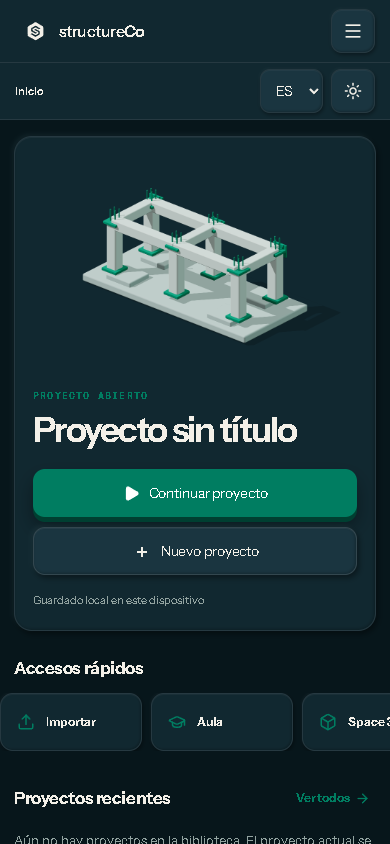
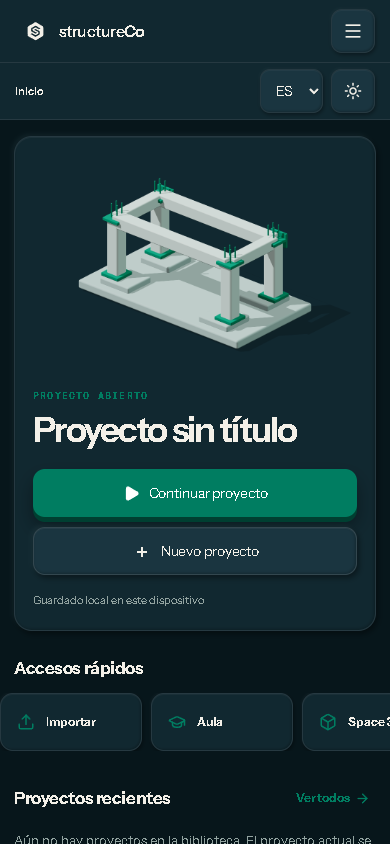
fix(home): close mobile navigation with Escape
Report: reports/2026-08-22-0128-home-three-assets.md

Changed region(s): [[0.1846, 0.2156, 0.8, 0.4313]]

diff --git a/src/features/welcome/WelcomeScreen.tsx b/src/features/welcome/WelcomeScreen.tsx
@@ -1,4 +1,4 @@
-import { lazy, Suspense, useEffect, useMemo, useState } from 'react';
+import { lazy, Suspense, useEffect, useMemo, useRef, useState } from 'react';
 import { ArrowRight, Box, Folder, GraduationCap, Home, LayoutTemplate, Menu, Moon, Play, Settings, Sun, Upload } from 'lucide-react';
 import { m, useReducedMotion } from 'motion/react';
 import { createBlankProject, exampleProjects } from '../../data/defaultProject';
@@ -77,6 +77,7 @@ export const WelcomeScreen = ({ onOpenWorkspace, onOpenSpace3D, onPreloadWorkspa
   const [exerciseDialogOpen, setExerciseDialogOpen] = useState(false);
   const [importCenterOpen, setImportCenterOpen] = useState(false);
   const [dxfImportOpen, setDxfImportOpen] = useState(false);
+  const mobileMenuButtonRef = useRef<HTMLButtonElement>(null);
   const entry = useWelcomeEntry();
   const heroId = useMemo(() => resolveSessionHeroId(HOME_HERO_IDS, window.sessionStorage), []);
 
@@ -85,6 +86,18 @@ export const WelcomeScreen = ({ onOpenWorkspace, onOpenSpace3D, onPreloadWorkspa
     onDirectResume?.();
     onOpenWorkspace();
   }, [allowDirectResume, entry, onDirectResume, onOpenWorkspace]);
+
+  useEffect(() => {
+    if (!mobileNavOpen) return;
+    const closeMobileNavigation = (event: KeyboardEvent) => {
+      if (event.key !== 'Escape') return;
+      event.preventDefault();
+      setMobileNavOpen(false);
+      mobileMenuButtonRef.current?.focus();
+    };
+    window.addEventListener('keydown', closeMobileNavigation);
+    return () => window.removeEventListener('keydown', closeMobileNavigation);
+  }, [mobileNavOpen]);
 
   const openBlankProject = () => {
     const next = createBlankProject();
@@ -149,7 +162,7 @@ export const WelcomeScreen = ({ onOpenWorkspace, onOpenSpace3D, onPreloadWorkspa
 
   return <main className="sc-home" data-testid="welcome-screen">
     <aside className="sc-home-sidebar"><div className="sc-home-wordmark"><BrandMark size={30} /><strong><span>structure</span>Co</strong></div>{renderNavigation()}<button type="button" className="sc-home-settings" onClick={() => setSettingsOpen((open) => !open)}><Settings size={19} /><span>{text.settings}</span></button></aside>
-    <header className="sc-home-mobile-header"><div className="sc-home-wordmark"><BrandMark size={27} /><strong><span>structure</span>Co</strong></div><button type="button" aria-label={mobileNavOpen ? text.closeMenu : text.menu} aria-expanded={mobileNavOpen} onClick={() => setMobileNavOpen((open) => !open)}><Menu size={20} /></button></header>
+    <header className="sc-home-mobile-header"><div className="sc-home-wordmark"><BrandMark size={27} /><strong><span>structure</span>Co</strong></div><button ref={mobileMenuButtonRef} type="button" aria-label={mobileNavOpen ? text.closeMenu : text.menu} aria-expanded={mobileNavOpen} onClick={() => setMobileNavOpen((open) => !open)}><Menu size={20} /></button></header>
     {mobileNavOpen ? renderNavigation(true) : null}
     <div className="sc-home-main"><header className="sc-home-topline"><span>{text[view]}</span><div><label><span className="sr-only">{t('language.label')}</span><select value={language} onChange={(event) => updateProjectView((draft) => ({ ...draft, settings: { ...draft.settings, language: event.target.value as 'es' | 'en' } }))}><option value="es">ES</option><option value="en">EN</option></select></label><button type="button" onClick={() => setTheme(theme === 'light' ? 'dark' : 'light')} aria-label={theme === 'light' ? t('theme.dark') : t('theme.light')}>{theme === 'light' ? <Moon size={18} /> : <Sun size={18} />}</button></div></header><div className="sc-home-content">{content}</div></div>
     {settingsOpen ? <div className="sc-home-settings-panel" role="dialog" aria-label={text.settings}><button type="button" onClick={() => setSettingsOpen(false)}>×</button><h2>{text.settings}</h2><p>{text.local}</p></div> : null}

diff --git a/src/features/welcome/totalRedesignHome.test.tsx b/src/features/welcome/totalRedesignHome.test.tsx
@@ -1,5 +1,6 @@
 // @vitest-environment jsdom
 import { cleanup, render, screen, within } from '@testing-library/react';
+import userEvent from '@testing-library/user-event';
 import { afterEach, beforeAll, beforeEach, describe, expect, it, vi } from 'vitest';
 import { createBlankProject } from '../../data/defaultProject';
 import { PROJECT_STORAGE_KEY } from '../../data/projectStorage';
@@ -68,5 +69,39 @@ describe('Home total redesign contract', () => {
     expect(container.querySelector('[data-testid="home-secondary-actions"]')).toBeTruthy();
     expect(screen.queryByText(/Empieza en tres pasos/i)).toBeNull();
     expect(screen.queryByText(/Mesa/i)).toBeNull();
+  });
+
+  it('closes mobile navigation with Escape and returns focus to its menu button', async () => {
+    const user = userEvent.setup();
+    renderHome();
+    const menuButton = screen.getByRole('button', { name: 'Abrir navegación' });
+
+    await user.click(menuButton);
+    expect(menuButton.getAttribute('aria-expanded')).toBe('true');
+    expect(screen.getAllByRole('navigation', { name: 'Navegación principal' })).toHaveLength(2);
+
+    await user.keyboard('{Escape}');
+
+    expect(menuButton.getAttribute('aria-expanded')).toBe('false');
+    expect(screen.getAllByRole('navigation', { name: 'Navegación principal' })).toHaveLength(1);
+    expect(document.activeElement).toBe(menuButton);
+  });
+
+  it('toggles mobile navigation state and closes it after selecting a destination', async () => {
+    const user = userEvent.setup();
+    const { container } = renderHome();
+    const menuButton = screen.getByRole('button', { name: 'Abrir navegación' });
+
+    expect(menuButton.getAttribute('aria-expanded')).toBe('false');
+    await user.click(menuButton);
+    expect(menuButton.getAttribute('aria-expanded')).toBe('true');
+
+    const mobileNavigation = container.querySelector('.sc-home-nav--mobile');
+    expect(mobileNavigation).not.toBeNull();
+    await user.click(within(mobileNavigation as HTMLElement).getByRole('button', { name: 'Plantillas' }));
+
+    expect(menuButton.getAttribute('aria-expanded')).toBe('false');
+    expect(container.querySelector('.sc-home-nav--mobile')).toBeNull();
+    expect(screen.getByRole('heading', { name: 'Elige una estructura de partida' })).toBeTruthy();
   });
 });

diff --git a/reports/2026-08-22-0128-home-three-assets.md b/reports/2026-08-22-0128-home-three-assets.md
@@ -1,45 +1,73 @@
-# Home total y assets estructurales Three.js
+# Home total y assets estructurales Three.js — corrección de accesibilidad y evidencia completa
 
-**Fecha:** 2026-08-22 01:28  
-**Agente:** Codex  
+**Fecha:** 2026-08-22 01:48
+**Agente:** Codex
 **Rama:** `codex/clay-workspace-phase-2`
 
 ## Qué cambió
 
-Se reemplazó por completo la composición anterior del Home con una experiencia adaptativa de escritorio, tablet y móvil. El Home ahora prioriza continuar o crear proyecto, accesos rápidos, proyectos recientes y plantillas, con navegación propia por formato.
+El menú de navegación móvil del Home ahora responde a `Escape`: se cierra y el foco vuelve al botón que abrió el menú. Se añadieron pruebas focales para ese contrato y para el contrato existente de apertura/cierre mediante `aria-expanded` y selección de un destino.
 
-Se añadió una primera familia editable de escenas Three.js y 40 renders transparentes Día/Noche: cuatro pórticos, cuatro vigas, cuatro voladizos, cuatro armaduras y cuatro losas. El pórtico principal se elige de forma estable por sesión y las plantillas usan las nuevas imágenes 3D con SVG únicamente como respaldo.
+El oráculo visual del Home captura ahora exactamente seis escenarios: escritorio, tablet y móvil, todos en Día y Noche. La evidencia regenerada contiene los seis PNG y un resumen instrumental sin fallos.
 
 ## Por qué
 
-El usuario pidió un rediseño visual total guiado por sus referencias, con material mate, profundidad física y assets estructurales de mayor calidad. También pidió eliminar la placa/cuadrado decorativo detrás del pórtico: el modelo ahora se presenta directamente sobre la superficie del Home, sin fondo, halo, patrón ni contenedor visual adicional.
+La revisión de Task 2 detectó tres faltantes: no había evidencia de las seis vistas requeridas, el RED original no estaba explicado en el reporte y no existía cobertura focal de navegación móvil accesible. Esta corrección deja la evidencia verificable sin alterar el diseño de navegación ni sus callbacks existentes.
 
 ## Archivos tocados
 
-- `src/features/welcome/WelcomeScreen.tsx` y `totalHome.css` — nueva arquitectura del Home y composición responsive Día/Noche.
-- `src/features/welcome/homeSession.ts` — selección aleatoria estable del pórtico principal durante la sesión.
-- `src/features/project-hub/ProjectHub.tsx` y `Phase2ProjectHub.tsx` — integración del Hub real dentro de la nueva navegación.
-- `src/features/structural-assets/threePortalAssets.ts` — cuatro escenas editables de pórticos.
-- `src/features/structural-assets/threeFamilyAssets.ts` — escenas editables de vigas, voladizos, armaduras y losas.
-- `src/features/structural-assets/threeStructuralRender.ts` — render transparente y encuadre ortográfico calculado desde límites reales.
-- `src/features/structural-assets/ThreeStructuralImage.tsx` — carga de prerenders Día/Noche con fallback SVG.
-- `public/assets/structural/` — 40 PNG transparentes generados para uso rápido en producto.
-- `scripts/generate-three-portal-assets.mjs` — regeneración determinista de los renders desde las escenas Three.js.
-- `scripts/qa-total-home-redesign.mjs` y `scripts/qa-structural-assets.mjs` — QA visual y responsive automatizada.
-- `reports/evidence/2026-08-22-total-home-redesign/` — capturas de escritorio, tablet y móvil.
-- `reports/evidence/2026-08-22-structural-assets/` — evidencia del atlas de assets.
+- `src/features/welcome/WelcomeScreen.tsx` — escucha `Escape` sólo mientras el menú móvil está abierto y devuelve foco a su activador.
+- `src/features/welcome/totalRedesignHome.test.tsx` — RED/GREEN de Escape y caracterización de `aria-expanded`, cierre y actualización de contenido al elegir Plantillas.
+- `scripts/qa-total-home-redesign.mjs` — matriz fija de seis escenarios.
+- `reports/evidence/2026-08-22-total-home-redesign/` — seis capturas y `qa-summary.json` regenerado.
+- `reports/2026-08-22-0128-home-three-assets.md` — este checkpoint actualizado.
+
+## Evidencia TDD
+
+| Etapa | Comando / fuente | Resultado honesto |
+|---|---|---|
+| RED original de Task 2 | `.superpowers/sdd/2026-08-22-structureco-total-visual-redesign/progress.md` | El ledger registra `npm.cmd test -- src/features/welcome/totalRedesignHome.test.tsx --reporter=verbose` con 3/3 fallos esperados: navegación, hero estructural y acciones compactas. El ledger no conserva el texto de salida, por lo que no se inventó. |
+| RED nuevo: Escape | `npm.cmd test -- src/features/welcome/totalRedesignHome.test.tsx --reporter=verbose` | 3 PASS, 1 FAIL esperado: tras `{Escape}`, `aria-expanded` continuaba en `true` (recibido `true`, esperado `false`). Antes de esa ejecución se corrigió una aserción de prueba que usaba un matcher DOM no instalado; no cuenta como evidencia del comportamiento. |
+| GREEN nuevo: Escape | mismo comando | 4/4 PASS. |
+| Caracterización existente | mismo comando, tras añadir selección de destino | 5/5 PASS: el menú alterna `aria-expanded`, Plantillas lo cierra y muestra su contenido. |
+
+## Evidencia visual
+
+`node scripts/qa-total-home-redesign.mjs` terminó con `Home redesign QA PASS · 6 captures` y `qa-summary.json` sin fallos ni errores de consola.
+
+| Escenario | Viewport | Captura |
+|---|---:|---|
+| Escritorio Día | 1440×960 | `reports/evidence/2026-08-22-total-home-redesign/desktop-day.png` |
+| Escritorio Noche | 1440×960 | `reports/evidence/2026-08-22-total-home-redesign/desktop-night.png` |
+| Tablet Día | 1024×900 | `reports/evidence/2026-08-22-total-home-redesign/tablet-day.png` |
+| Tablet Noche | 1024×900 | `reports/evidence/2026-08-22-total-home-redesign/tablet-night.png` |
+| Móvil Día | 390×844 | `reports/evidence/2026-08-22-total-home-redesign/mobile-day.png` |
+| Móvil Noche | 390×844 | `reports/evidence/2026-08-22-total-home-redesign/mobile-night.png` |
+
+La inspección visual manual cubrió escritorio Día, tablet Noche y móvil Día. El oráculo verificó para los seis: tema correcto, cero overflow horizontal, composición sidebar/móvil esperada, tres accesos rápidos, máximo tres recientes, hero estructural, sin carril/portal legado, sin filtros translúcidos y sin errores de consola.
 
 ## Cómo verificar
 
 ```powershell
+npm.cmd test -- src/features/welcome/WelcomeScreen.test.tsx src/features/welcome/totalRedesignHome.test.tsx --reporter=verbose
 npm.cmd run typecheck
-npm.cmd test -- src/features/welcome/WelcomeScreen.test.tsx src/features/welcome/totalRedesignHome.test.tsx src/features/structural-assets/ThreeStructuralImage.test.tsx src/features/structural-assets/threePortalAssets.test.ts src/features/structural-assets/threeFamilyAssets.test.ts src/features/structural-assets/threeStructuralRender.test.ts
+npm.cmd run lint
+npm.cmd run verify:protected
 npm.cmd run build
 node scripts/qa-total-home-redesign.mjs
 ```
 
-Resultado actual: tipado correcto, pruebas focales correctas, build de producción correcto y `Home redesign QA PASS` en cuatro capturas. El aviso de chunks mayores a 500 kB continúa siendo un warning de Vite y no un fallo de compilación.
+Resultados de esta corrección:
+
+- Focal `WelcomeScreen` + `totalRedesignHome`: 2 archivos, 11/11 PASS.
+- `typecheck`: PASS.
+- `lint`: exit 0 con 13 warnings preexistentes fuera del diff (evidencia/prototipo, `measure-datasheet-performance.mjs`, `WorkspaceShell.tsx` y `ContextualActions.tsx`).
+- `verify:protected`: PASS, 38 archivos protegidos intactos.
+- `build`: PASS. Vite conserva el warning no bloqueante por chunks mayores de 500 kB.
+- QA visual: PASS, 6/6 capturas.
 
 ## Pendiente / siguiente paso
 
-Completar las familias 3D restantes (marcos espaciales, apoyos, cargas, secciones y conexiones), integrarlas en Proyectos y Plantillas, y continuar el rediseño total del Workspace. No se tocó motor estructural, solver, signos, unidades, topología, persistencia, import/export ni formatos.
+El alcance de la corrección está cerrado. Como resultado separado, `npm.cmd test -- src/features/welcome --reporter=verbose` falla 4/5 en `WelcomeHeader.test.tsx`: busca la etiqueta `/menú|menu/i`, un drawer con `role="dialog"` y un `h1` del header anterior. Ese archivo no fue modificado y la versión base de `WelcomeScreen.tsx` ya exponía `Abrir navegación`; requiere una tarea de reconciliación de la prueba histórica, no se ocultó ni se reparó fuera de alcance.
+
+No se tocaron engine, solver, `ProjectModel`, persistencia, import/export, comandos, unidades, signos, topología ni interacción de canvas. Se preservó el archivo no rastreado ajeno `reports/evidence/2026-08-21-clay-mobile-density-phase-5/full-test.log`.

diff --git a/.superpowers/sdd/2026-08-22-structureco-total-visual-redesign/task-2-report.md b/.superpowers/sdd/2026-08-22-structureco-total-visual-redesign/task-2-report.md
@@ -1,0 +1,63 @@
+# Task 2 — fix round 1 report
+
+**Estado:** `DONE_WITH_CONCERNS`
+**Fecha:** 2026-08-22 01:48
+**Checkout:** `C:\Users\crisd\.codex\github-workspaces\structureco-clay-redesign`
+**Rama:** `codex/clay-workspace-phase-2`
+
+## Resultado entregado
+
+Se completó la corrección solicitada para el Home de Task 2:
+
+- `Escape` cierra la navegación móvil abierta y devuelve el foco al botón de menú.
+- La cobertura focal confirma tanto ese comportamiento como el estado `aria-expanded`, el cierre al seleccionar Plantillas y la actualización del contenido.
+- `scripts/qa-total-home-redesign.mjs` genera exactamente seis capturas: Desktop/Tablet/Mobile × Day/Night.
+- Se regeneró la evidencia visual y el checkpoint existente fue actualizado con resultados reproducibles y evidencia TDD completa.
+
+## Alcance real
+
+Modificados únicamente:
+
+- `src/features/welcome/WelcomeScreen.tsx`
+- `src/features/welcome/totalRedesignHome.test.tsx`
+- `scripts/qa-total-home-redesign.mjs`
+- `reports/evidence/2026-08-22-total-home-redesign/{desktop-day,desktop-night,tablet-day,tablet-night,mobile-day,mobile-night}.png`
+- `reports/evidence/2026-08-22-total-home-redesign/qa-summary.json`
+- `reports/2026-08-22-0128-home-three-assets.md`
+- `.superpowers/sdd/2026-08-22-structureco-total-visual-redesign/task-2-report.md`
+
+No se modificaron engine, solver, workers, `ProjectModel`, persistencia, import/export, comandos, unidades, signos, topología ni canvas. El archivo ajeno no rastreado `reports/evidence/2026-08-21-clay-mobile-density-phase-5/full-test.log` permanece intacto y sin stage.
+
+## TDD y accesibilidad
+
+La evidencia original se preserva desde `progress.md`: Task 2 comenzó con el comando `npm.cmd test -- src/features/welcome/totalRedesignHome.test.tsx --reporter=verbose`, que falló 3/3 por la navegación, el hero estructural y las acciones compactas faltantes. El ledger sólo conserva ese conteo y descripción; no se reconstruyó ni inventó salida adicional.
+
+Para este fix se añadió primero la prueba de Escape. El RED real ejecutó 3 PASS y 1 FAIL: tras Escape, `aria-expanded` permanecía en `true` cuando se esperaba `false`. Después del cambio mínimo de producción, el mismo comando dio 4/4 PASS. La prueba de la navegación ya existente se añadió como caracterización, no como RED, y el resultado final del archivo fue 5/5 PASS.
+
+## Validación ejecutada
+
+| Validación | Resultado |
+|---|---|
+| `npm.cmd test -- src/features/welcome/WelcomeScreen.test.tsx src/features/welcome/totalRedesignHome.test.tsx --reporter=verbose` | PASS: 2 archivos, 11/11 pruebas. |
+| `npm.cmd run typecheck` | PASS. |
+| `npm.cmd run lint` | PASS con exit 0; 13 warnings preexistentes fuera del diff. |
+| `npm.cmd run verify:protected` | PASS: 38 archivos protegidos intactos. |
+| `npm.cmd run build` | PASS; warning no bloqueante de Vite por chunks >500 kB. |
+| `node scripts/qa-total-home-redesign.mjs` | PASS: 6 capturas, resumen sin fallos ni errores de consola. |
+
+Se inspeccionaron manualmente las capturas `desktop-day.png`, `tablet-night.png` y `mobile-day.png`. Los seis escenarios instrumentados comprobaron tema, composición responsive, overflow horizontal cero, hero, accesos rápidos, límite de recientes, ausencia de superficies heredadas y ausencia de filtros translúcidos.
+
+## Evidencia visual
+
+- `desktop-day.png` y `desktop-night.png` — 1440×960.
+- `tablet-day.png` y `tablet-night.png` — 1024×900.
+- `mobile-day.png` y `mobile-night.png` — 390×844.
+- `qa-summary.json` — métricas por escenario y lista de fallos vacía.
+
+## Concern documentado
+
+La suite ampliada `npm.cmd test -- src/features/welcome --reporter=verbose` no pasa completa: `WelcomeHeader.test.tsx` falla 4/5 contra expectativas del header/drawer antiguo (`/menú|menu/i`, `role="dialog"`, `h1`). No se modificó ese archivo ni esas expectativas durante este fix, y la base ya usaba la etiqueta `Abrir navegación`; por ello no se amplió el alcance para reescribir una prueba histórica. El concern queda explícito en el checkpoint y no invalida los gates focales o protegidos que sí pasaron.
+
+## Handoff
+
+El siguiente agente puede partir del commit local asociado a este reporte. Si se autoriza una continuación, el único follow-up sugerido es reconciliar `WelcomeHeader.test.tsx` con el Home rediseñado como tarea independiente; no fue necesario para corregir Escape ni completar la matriz de evidencia de Task 2.
